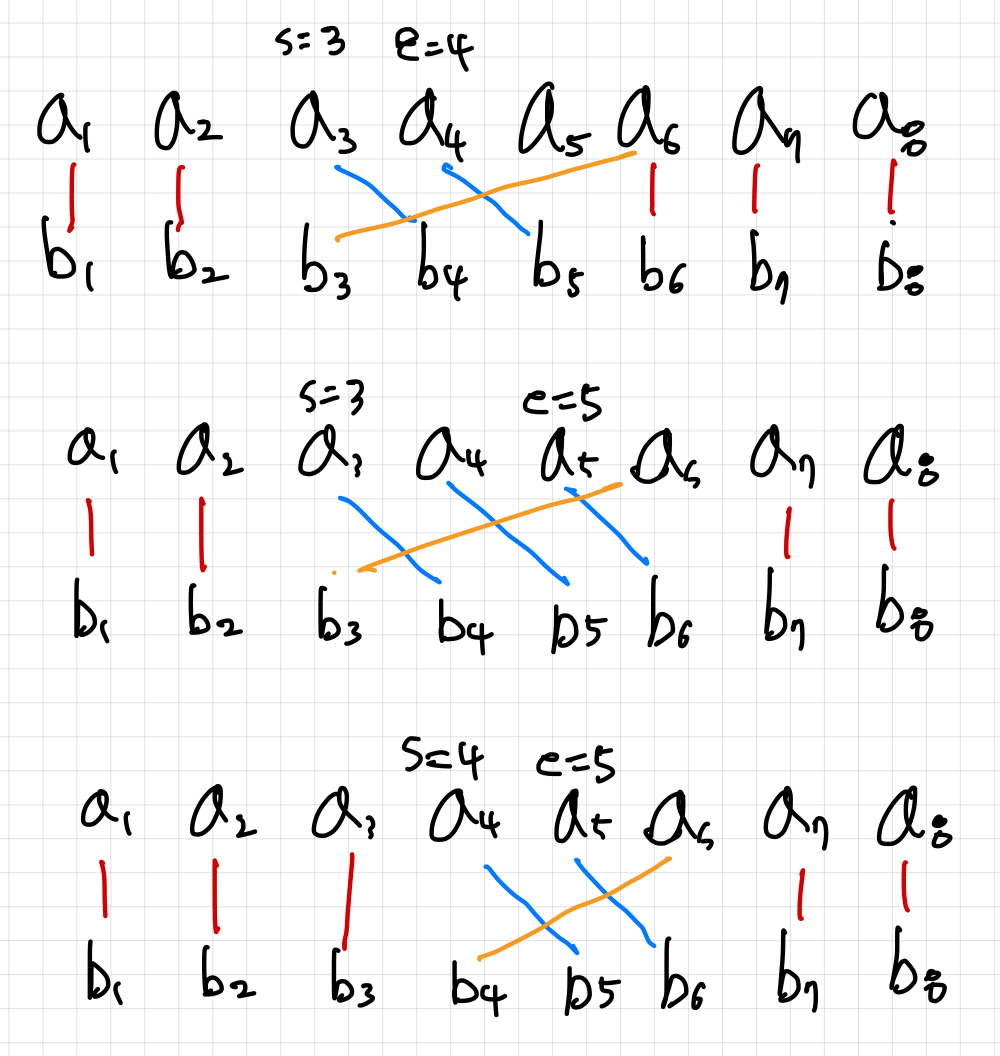
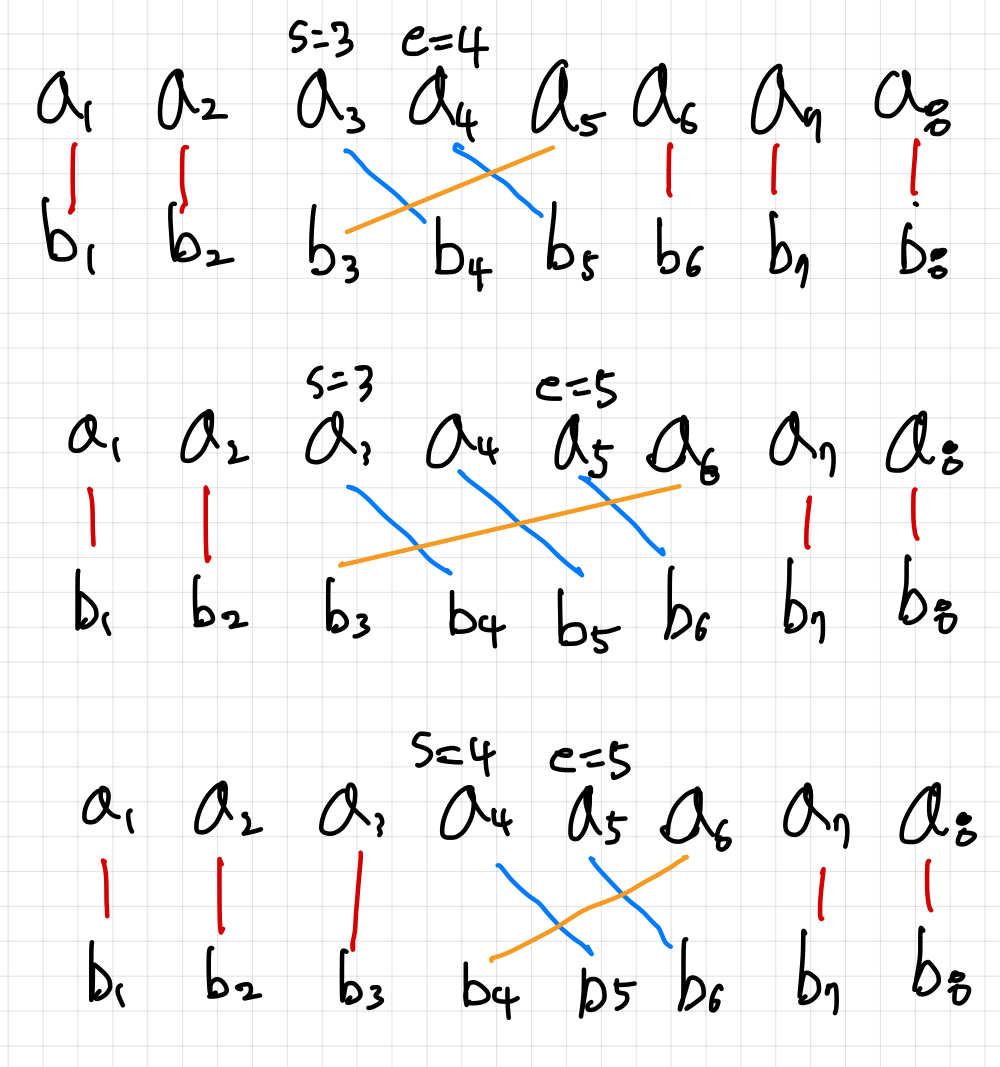
update doc

diff --git a/_posts/2024-07-07-scpc2024-round1.md b/_posts/2024-07-07-scpc2024-round1.md
@@ -21,7 +21,7 @@ tags:
 </script>
 
 > SCPC ( Samsung Collegiate Programming Cup ) 2024 1차 예선 모든 문제 풀이
-> <img src="/assets/img/posts/2024-07-07-scpc2024-round1/scpc.png">
+> <img src="/assets/img/posts/2024-07-07-scpc2024-round1/scpc.png" alt="scpc 2024 round1"/>
 
 <div markdown="1">
 
@@ -229,19 +229,26 @@ int main(){
 
 #### 4.2.2 보조 정리2
 
-<div> 각각 오름차순으로 정렬되있고 길이가 n인 배열 A,B에 대해 maxF(A,B)가 최소가 될려면, \(F(A,B)\)함수는 모든 i에 대해 \(F(a_i)=b_i\) 다. ( \(1 \leq i \leq n\) )</div>
+길이가 n이고, 각 각 오름차순으로 정렬되있는 배열 A,B에 대해 $$maxF(A,B)$$ 가 최소가 될려면, $$F(A,B)$$ 함수는 모든 i에 대해 $$F(a_i)=b_i$$ 다. ( $$1 \leq i \leq n$$ )
 
-#### 4.2.3 보조 정리3
+#### 4.2.3 풀이
 
-A, B 배열 각 각을 오름차순으로 정렬하고, 투 포인터로 문제를 진행하자. 투 포인터 s, e의 정의는 밑에 그림을 보면 이해가 갈 것이다.
 
-<div> 보조 정리1와 보조 정리2에 의하여, (투 포인터가 \([s_1,e_1]\)일 때 \( maxF \)) \(\geq\)  (투 포인터가 \([s_2,e_2]\)일 때 \(maxF\)) \((s_1 \leq s_2 \text{ and } e_2 \leq e_1\) )</div>
 
-<img src="/assets/img/posts/2024-07-07-scpc2024-round1/4.jpeg"/>
+$$A$$, $$B$$ 배열을 오름차순으로 정렬하고, 투 포인터로 문제를 진행하자. 투 포인터 $$s$$, $$e$$의 정의는 아래 그림을 보면 이해가 갈 것이다.
+<img src="/assets/img/posts/2024-07-07-scpc2024-round1/4.jpeg" alt="two pointer"/>
 
-<p> 해당 투 포인터에 대해 \(maxF\)가 L이하면 e가 1 증가, 초과면 s가 1증가. 그럼 투 포인터가 진행될 때, 해당 구간의 maxF 값을 구하고, 갱신하는 것이 핵심으로 보인다. 이 부분은 prioirity queue를 이용해 해결했다. 투 포인터를 진행하면서 \(a_i\)와 \(b_{i+1}\)의 차를 priority queue에 집어넣고, 차의 최댓값을 알고 싶을 때, priority queue의 top으로 최댓값을 알수 있다. 만약 top이 s,e 구간 밖에 해당하는 값이라면 아닐 때까지 prioirity queue의 top을 pop 한다. </p>
-<p>\(a_i\)와 \(b_{i+1}\)의 차만 비교 할 것이 아니라 \(a_i\)와 \(b_{i-1}\) 차도 고려해야하는 데, 이건 A,B 배열을 바꿔서 넣으면 쉽게 해결된다. </p>
-<p>시간 복잡도는 \(O(NlogN)\)</p>
+$$maxF$$의 값은 특정 하나의 쌍 $$a_i$$ 와 $$b_j$$에 의해 결정되어도 충분함을 알 수 있다. 그리고 나머지 $$a$$, $$b$$들의 차를 최소로 하려면 보조정리 2에 의해 작은 순서대로 서로 하나씩 매칭해줘야 한다. 그림 상에서는 주황 간선에 의해 $$maxF$$가 결정된다.
+
+또한, ( 투 포인터가 $$[s_1,e_1]$$일 때 $$maxF$$ )  $$\geq$$  (투 포인터가 $$[s_2,e_2]$$일 때 $$maxF$$) $$(s_1 \leq s_2 \text{ and } e_2 \leq e_1)$$ 가 성립함을 알 수 있다. 이해가 안 된다면, 한 단계가 진행될 때 실제로 매칭이 변경된 간선들만 따로 빼서 정리한 아래 그림을 봐보자.
+<img src="/assets/img/posts/2024-07-07-scpc2024-round1/5.jpeg" alt="two pointer"/>
+
+변화 과정에서 4개 요소들의 매칭 관계가 변경되고 이 4개 요소들에 대해 보조 정리1 적용해보면 이해가 될 것이다.
+
+
+따라서, 해당 투 포인터에 대해 $$maxF$$가 $$L$$이하면 $$e$$가 1 증가, 초과면 $$s$$가 1증가. 그럼 투 포인터가 진행될 때, 해당 구간의 $$maxF$$ 값을 구하고, 갱신하는 것이 핵심으로 보인다. 이 부분은 prioirity queue를 이용해 해결했다. 투 포인터를 진행하면서 $$a_i$$와 $$b_{i+1}$$의 차를 priority queue에 집어넣고, 차의 최댓값을 알고 싶을 때, priority queue의 top으로 최댓값을 알수 있다. 만약 top이 $$s$$, $$e$$ 구간 밖에 해당하는 값이라면 아닐 때까지 prioirity queue의 top을 pop 한다. 
+$$maxF$$를 결정하는 $$a_i$$와 $$b_j$$에 대하여 ($$i \geq j$$)일 때 차만 비교 할 것이 아니라 ($$i \leq j$$)일 때 차도 고려해야 하는데, 이건 $$A$$,$$B$$ 배열을 바꿔서 똑같은 과정을 한 번 더하면 쉽게 해결된다. 
+총 시간 복잡도는 $$O(NlogN)$$
 
 <details>
 <summary>
